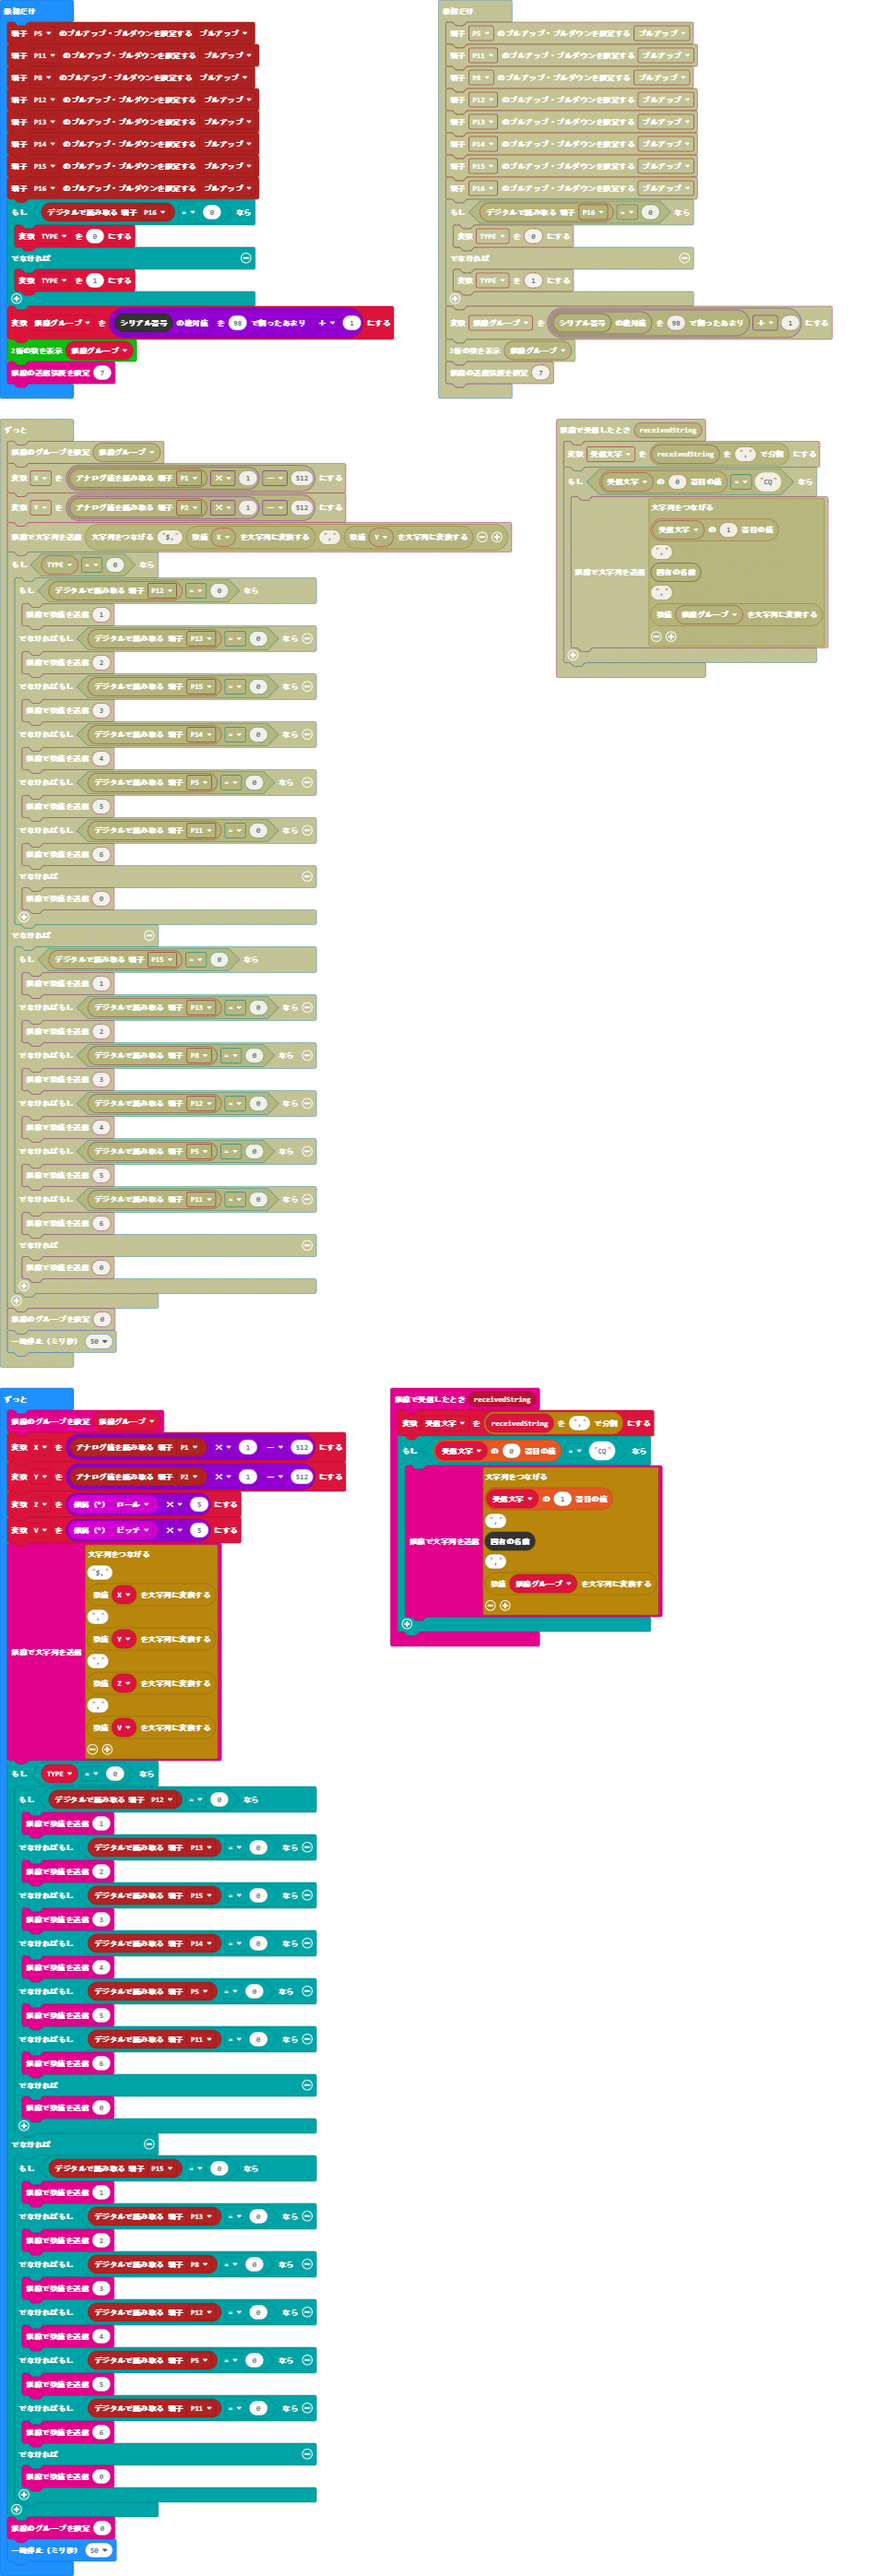
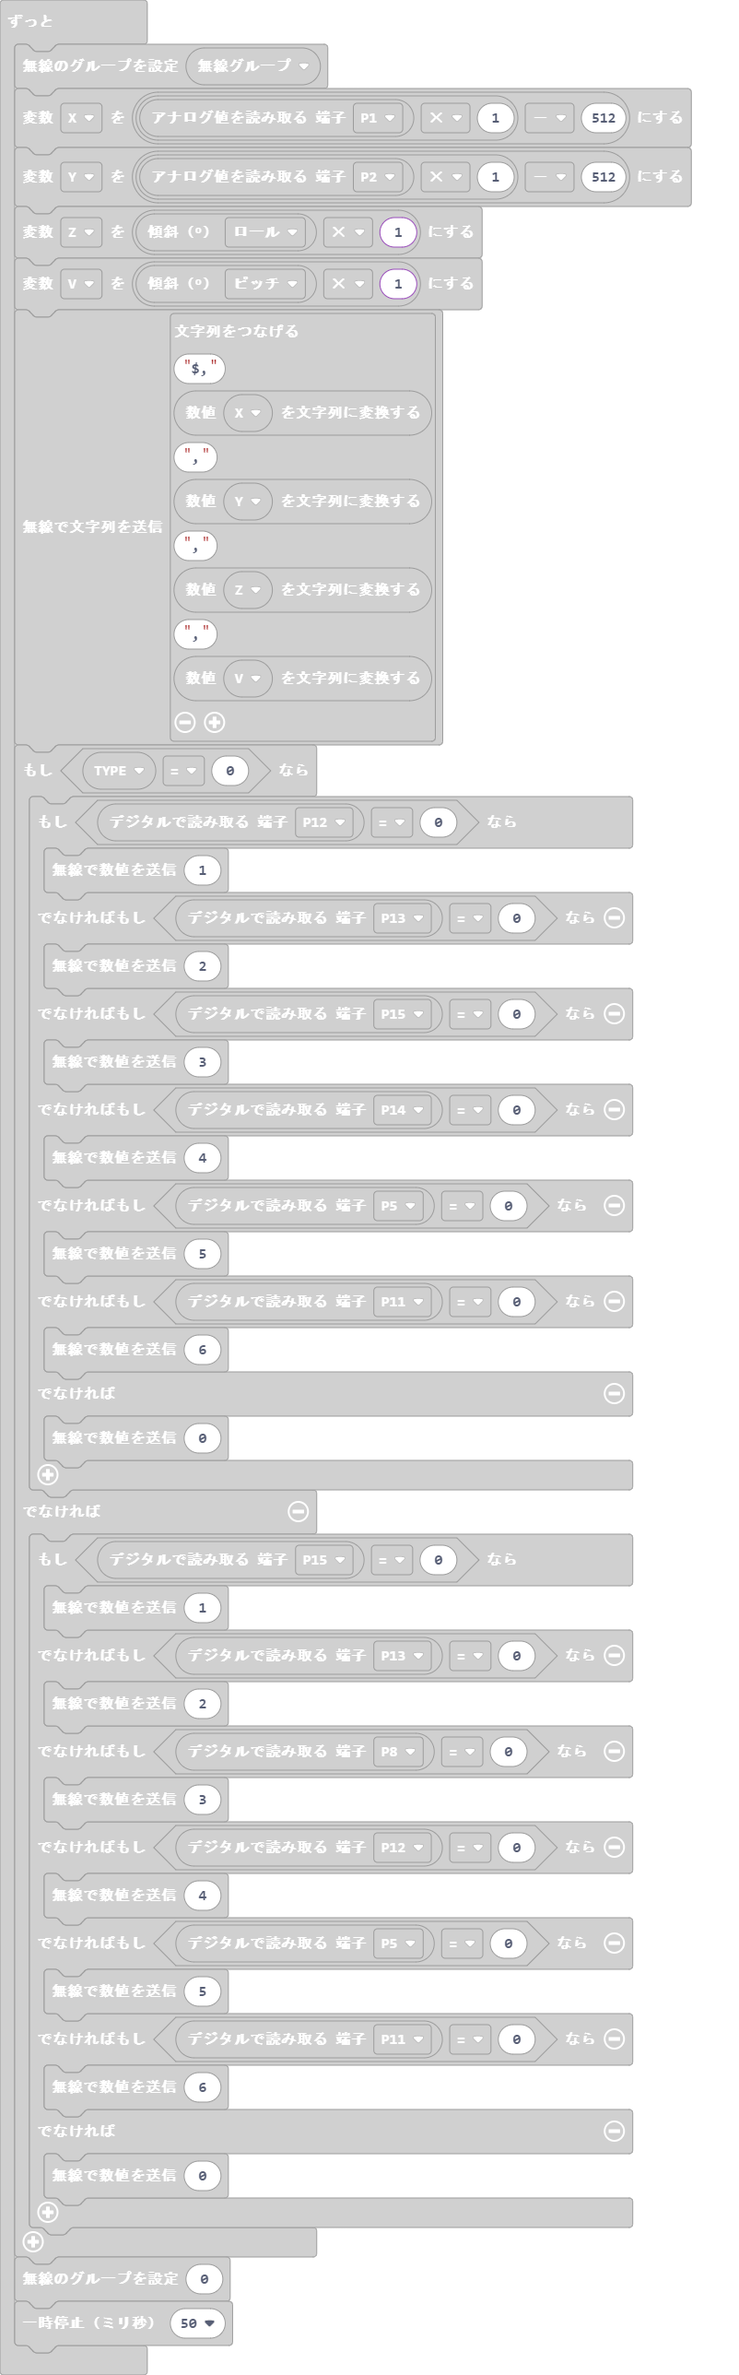
更新 main.blocks, main.ts

diff --git a/main.ts b/main.ts
@@ -31,8 +31,8 @@ basic.forever(function () {
     radio.setGroup(無線グループ)
     X = pins.analogReadPin(AnalogPin.P1) * 1 - 512
     Y = pins.analogReadPin(AnalogPin.P2) * 1 - 512
-    Z = input.rotation(Rotation.Roll) * 5
-    V = input.rotation(Rotation.Pitch) * 5
+    Z = input.rotation(Rotation.Roll) * 1
+    V = input.rotation(Rotation.Pitch) * 1
     radio.sendString("$," + convertToText(X) + "," + convertToText(Y) + "," + convertToText(Z) + "," + convertToText(V))
     if (TYPE == 0) {
         if (pins.digitalReadPin(DigitalPin.P12) == 0) {
